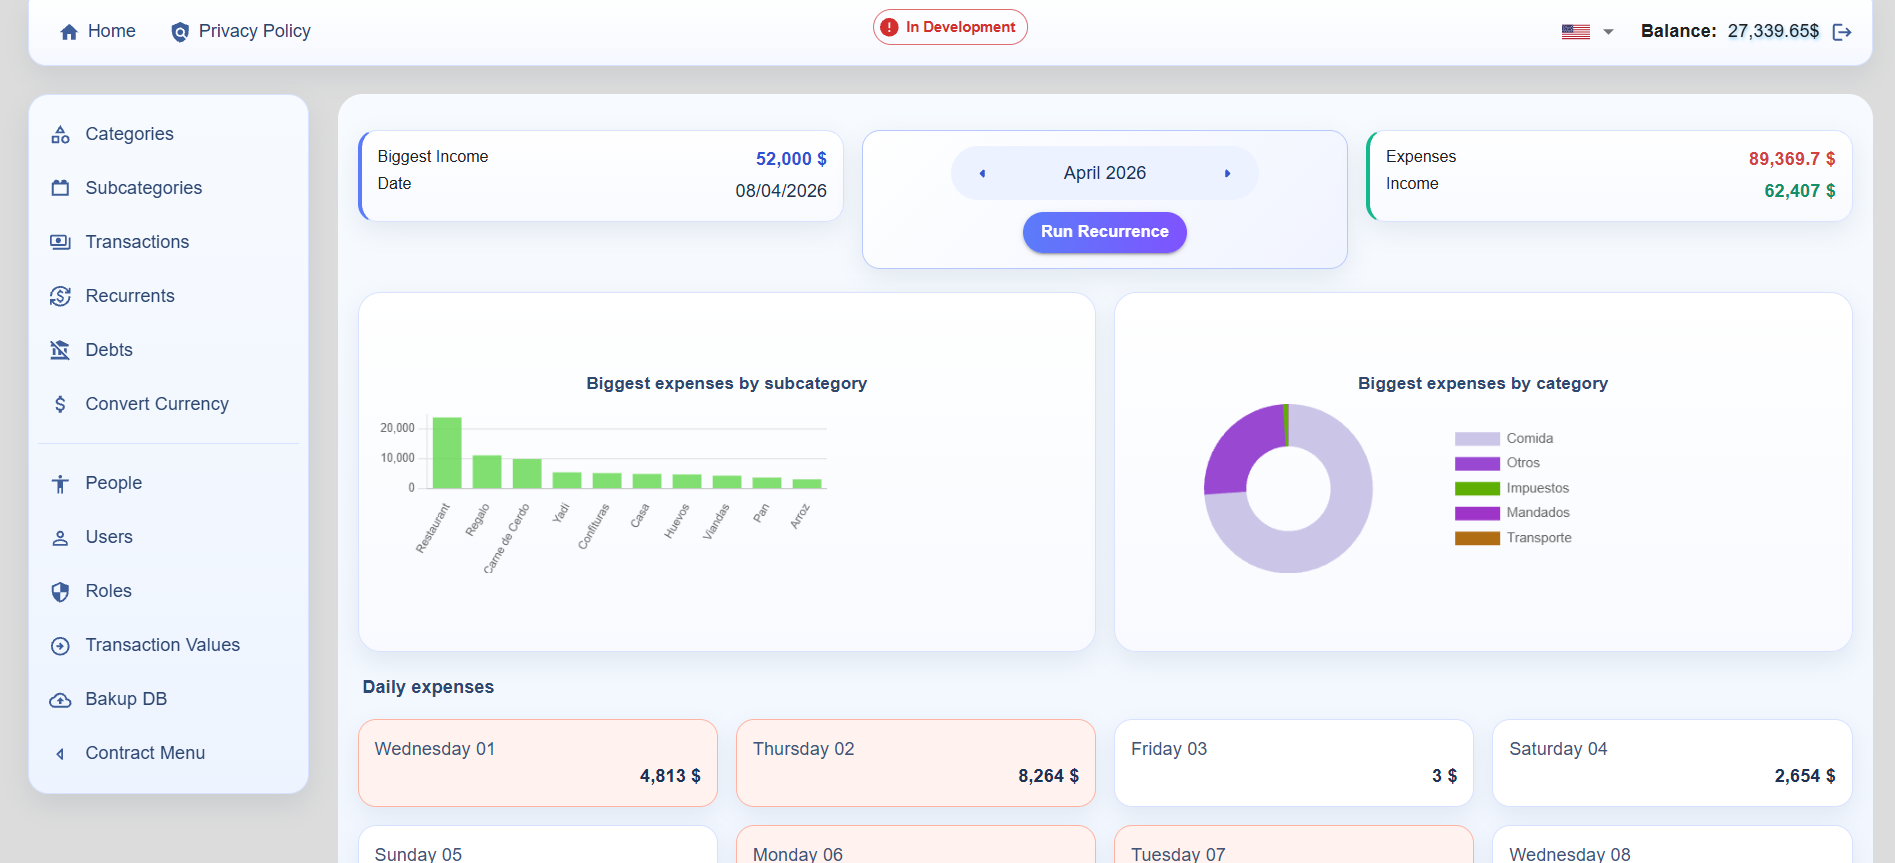
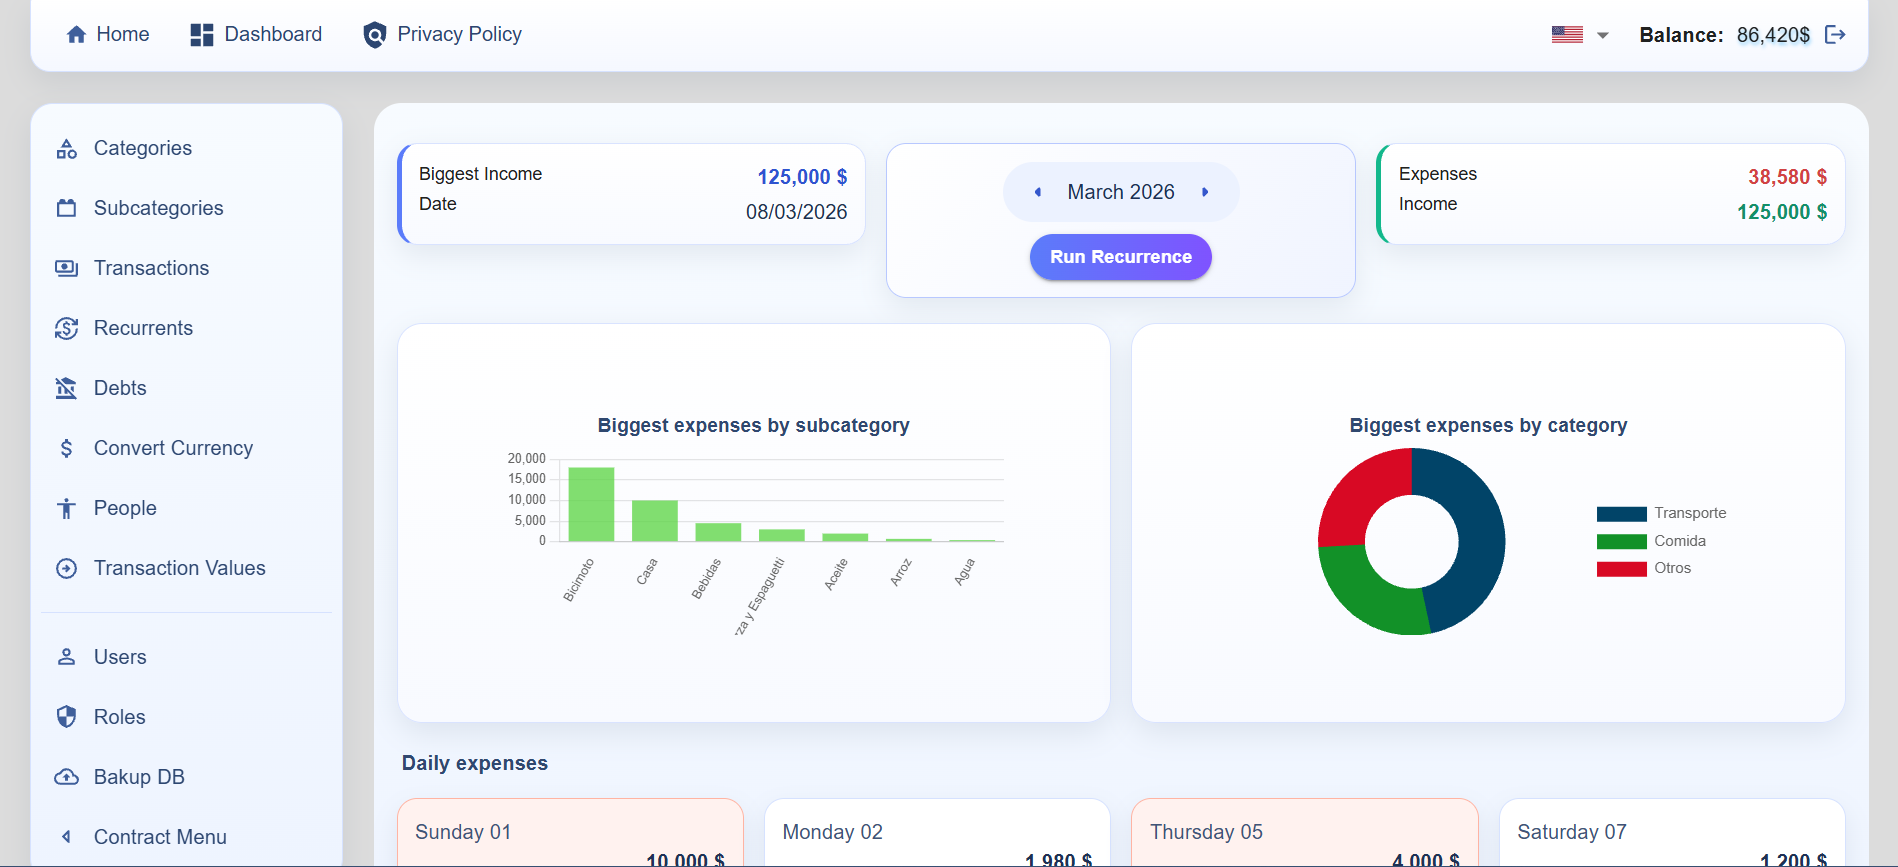
added expenses-tracker images

diff --git a/src/utils/constants.ts b/src/utils/constants.ts
@@ -103,7 +103,9 @@ const projects: IProject[] = [
         description:
             'Fullstack expense tracking app with role-based access, debt reminders, and multi-currency support.',
         images: [
-            '/projects/expenses-tracker/1.png'
+            '/projects/expenses-tracker/1.png',
+            '/projects/expenses-tracker/2.png',
+            '/projects/expenses-tracker/3.png'
         ],
         extraClasses: 'fit-cover'
     },